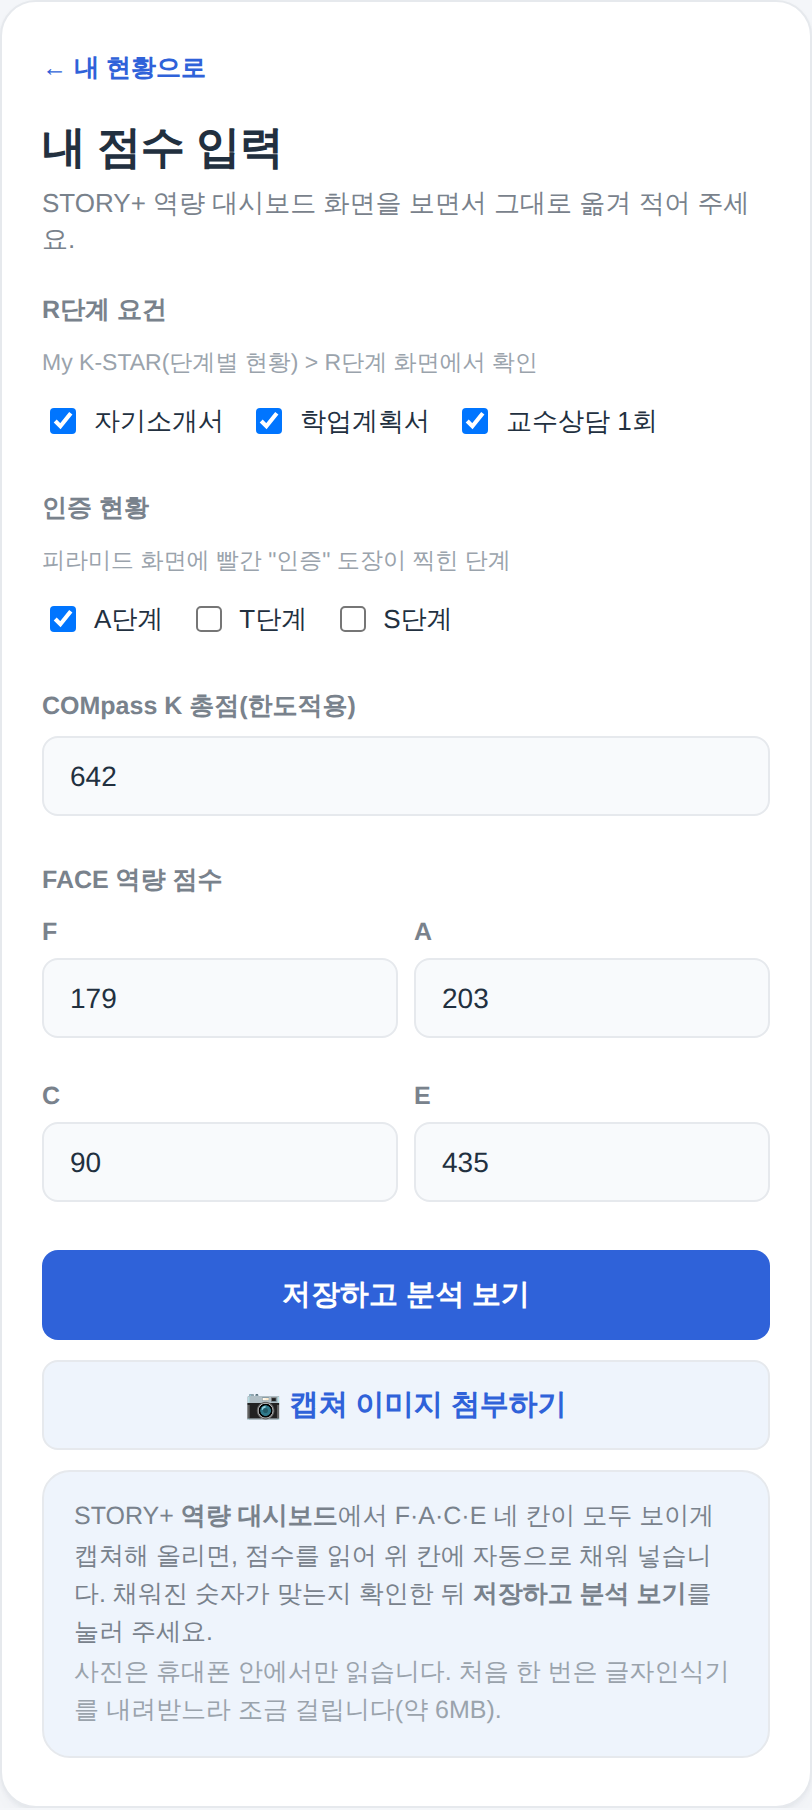
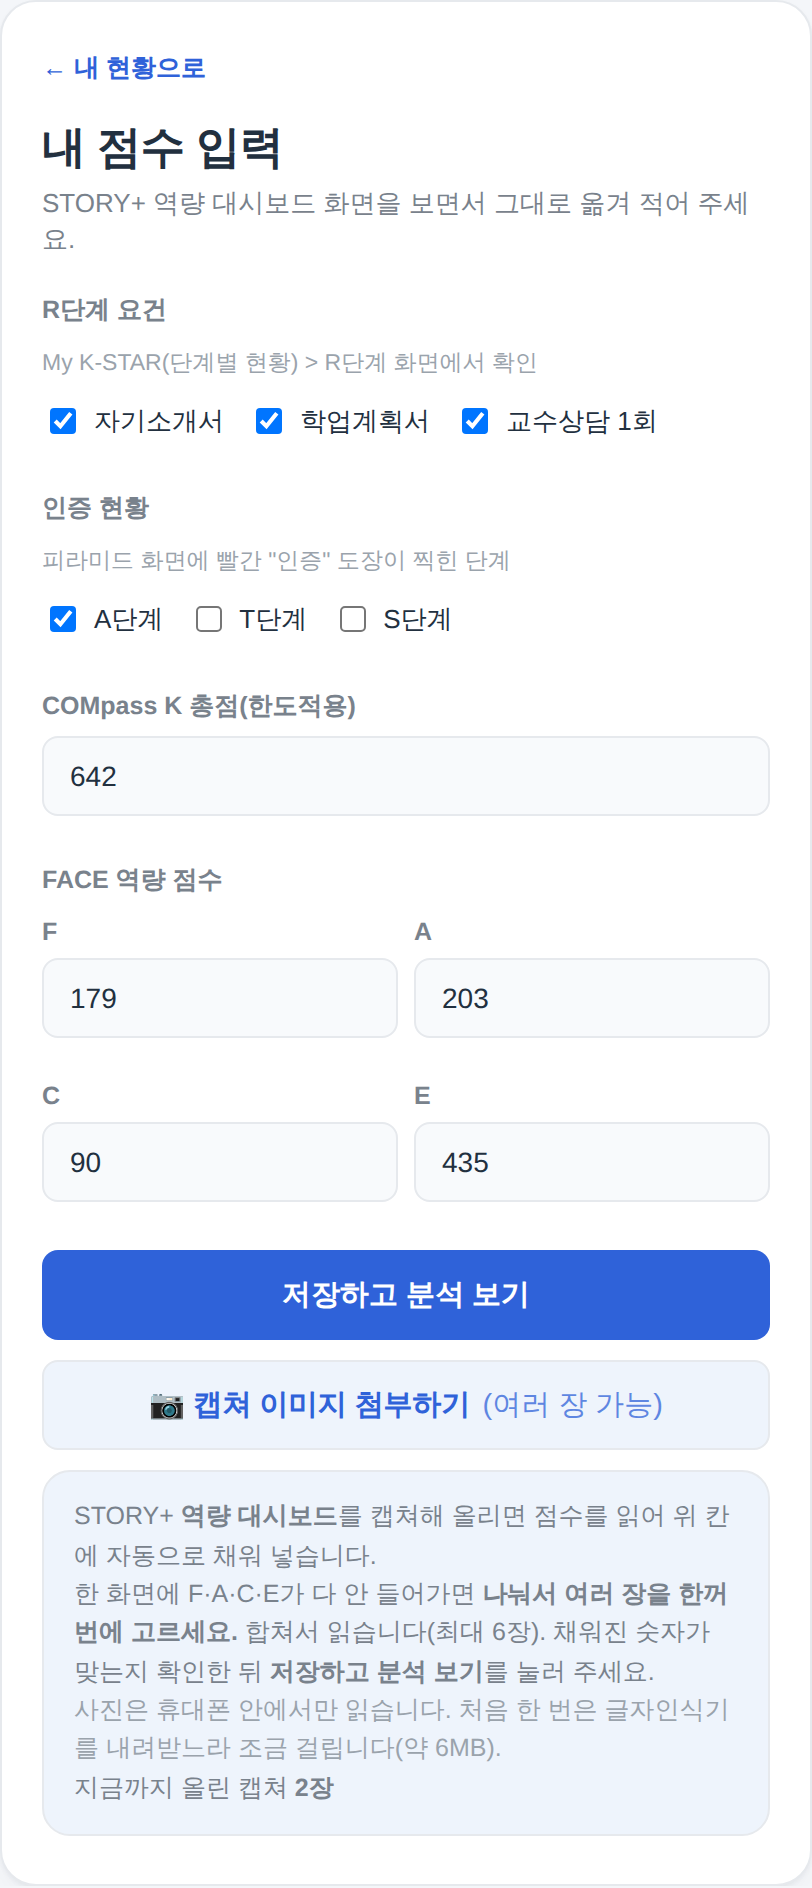
캡쳐를 여러 장 한꺼번에 올려 합쳐 읽도록 함
한 화면에 F·A·C·E 네 영역이 다 들어가지 않아 학생들이 나눠 캡쳐하게
되는데, 지금까지는 한 장만 읽을 수 있었다.

- 파일 선택에서 여러 장(최대 6장) 고르기 가능
- 장마다 읽은 결과를 합친다. 먼저 읽은 값을 남기고 빠진 영역만 채운다
- 진행 상황을 "2/3장 — 점수를 읽는 중입니다… 40%" 로 보여줌
- 못 찾은 영역이 있으면 어느 영역인지 알려준다
- 캡쳐 보관 요청이 서로 덮어쓰지 않도록 차례로 보냄
- 입력칸을 비우면 고른 파일 목록까지 비워지던 문제 수정

검증: 실제 캡쳐 한 장을 위아래로 잘라 두 장으로 올려 브라우저에서 확인 —
F50 A150 C90 E195 를 정확히 합쳐 읽음

Claude-Session: https://claude.ai/code/session_019X6R4KipJqxm9tG7Tq54df

diff --git a/index.html b/index.html
@@ -432,7 +432,7 @@ function sameName(a, b){
 var API_URL = 'https://script.google.com/macros/s/AKfycbzdGENYqLZVMiW1gDjRwu1DXK8PLuFW3rBE8E1GQ7exrQmRKLdWmgcrJ_99Q6UIWIKJ/exec';
 
 // 화면 아래에 표시되는 판 번호. 고칠 때마다 올린다.
-var APP_VERSION = '2026-09-21 g';
+var APP_VERSION = '2026-09-21 h';
 
 /* ============ store: 서버 → 아티팩트DB → 기기저장 순으로 사용 ============ */
 var db = null, fallbackMode = false, fallbackData = {};
@@ -1505,12 +1505,13 @@ function screenScoreForm(){
       '<button type="submit" class="btn btn-primary">저장하고 분석 보기</button>' +
     '</form>' +
     '<div style="height:10px;"></div>' +
-    '<label class="btn btn-ghost" for="shotInput" style="cursor:pointer;">📷 캡쳐 이미지 첨부하기</label>' +
-    '<input id="shotInput" type="file" accept="image/*" style="display:none;">' +
+    '<label class="btn btn-ghost" for="shotInput" style="cursor:pointer;">📷 캡쳐 이미지 첨부하기 <span style="font-weight:500;opacity:.75;">(여러 장 가능)</span></label>' +
+    '<input id="shotInput" type="file" accept="image/*" multiple style="display:none;">' +
     (state.shotMsg ? '<div class="okbox" style="margin-top:10px;font-weight:500;">'+esc(state.shotMsg)+'</div>' : '') +
     '<div class="notice-box" style="margin-top:10px;margin-bottom:0;">' +
-      'STORY+ <b>역량 대시보드</b>에서 F·A·C·E 네 칸이 모두 보이게 캡쳐해 올리면, ' +
-      '점수를 읽어 위 칸에 자동으로 채워 넣습니다. 채워진 숫자가 맞는지 확인한 뒤 ' +
+      'STORY+ <b>역량 대시보드</b>를 캡쳐해 올리면 점수를 읽어 위 칸에 자동으로 채워 넣습니다.<br>' +
+      '한 화면에 F·A·C·E가 다 안 들어가면 <b>나눠서 여러 장을 한꺼번에 고르세요.</b> ' +
+      '합쳐서 읽습니다(최대 '+MAX_SHOTS+'장). 채워진 숫자가 맞는지 확인한 뒤 ' +
       '<b>저장하고 분석 보기</b>를 눌러 주세요.<br>' +
       '<span style="color:var(--text-faint);">사진은 휴대폰 안에서만 읽습니다. ' +
       '처음 한 번은 글자인식기를 내려받느라 조금 걸립니다(약 6MB).</span>' +
@@ -2034,11 +2035,12 @@ function guideStudent(){
       '<ul>' +
         '<li><b>📷 캡쳐 이미지 첨부하기</b>를 누르고 역량 대시보드 캡쳐를 고르면, ' +
           'F·A·C·E 점수를 읽어 <b>자동으로 채워 넣습니다.</b> 숫자가 맞는지만 확인하면 돼요.</li>' +
+        '<li>한 화면에 네 영역이 다 안 들어가면 <b>나눠서 여러 장을 한꺼번에 고르세요.</b> 합쳐서 읽습니다.</li>' +
         '<li>직접 적어도 됩니다. 화면에 나온 <b>COMpass K 총점</b>과 <b>F·A·C·E 점수</b>를 그대로 옮겨 적어 주세요.</li>' +
         '<li><b>My K-STAR(단계별 현황)</b> 화면에서 R단계 요건 3가지와, 피라미드에 빨간 "인증" 도장이 찍힌 단계를 체크해 주세요.</li>' +
         '<li>저장하면 바로 아래에 내 분석 결과가 나타납니다.</li>' +
       '</ul>' +
-      stepShot('guide-img/s8-score-form.png', '내 점수 입력 화면 — 맨 아래 "캡쳐 이미지 첨부하기"를 쓰면 자동으로 채워져요') +
+      stepShot('guide-img/s8-score-form.png', '내 점수 입력 화면 — 맨 아래 "캡쳐 이미지 첨부하기"로 여러 장을 한꺼번에 올릴 수 있어요') +
       '</div>' +
     '<div class="step"><div class="step-num">3</div>' +
       '<h2>내 분석 결과 보기</h2>' +
@@ -2588,39 +2590,64 @@ function fillScoreForm(v){
 }
 
 // 캡쳐 원본은 서버가 받아 줄 때만 보관한다. 못 받아도 학생 화면은 그대로 동작한다.
+// 여러 장을 한꺼번에 올릴 수 있으므로, 서로 덮어쓰지 않게 차례차례 보낸다.
+var archiveQueue = Promise.resolve();
 function archiveShot(dataUrl){
   if(!apiMode || !state.studentSession) return;
-  apiCall('analyze', { dataUrl: dataUrl, name: (cache.me && cache.me.name) || 'capture' })
-    .then(function(out){
-      if(!out || !out.fileId) return;
-      var shots = ((cache.me && cache.me.shots) || []).concat([{ fileId: out.fileId, at: nowIso() }]);
-      return storeUpdate('roster', state.studentSession.rosterId, { shots: shots }).then(loadMe);
-    })
-    .catch(function(){ /* 보관은 덤이라 실패해도 알리지 않는다 */ });
+  archiveQueue = archiveQueue.then(function(){
+    return apiCall('analyze', { dataUrl: dataUrl, name: (cache.me && cache.me.name) || 'capture' })
+      .then(function(out){
+        if(!out || !out.fileId) return;
+        var shots = ((cache.me && cache.me.shots) || []).concat([{ fileId: out.fileId, at: nowIso() }]);
+        return storeUpdate('roster', state.studentSession.rosterId, { shots: shots }).then(loadMe);
+      });
+  }).catch(function(){ /* 보관은 덤이라 실패해도 알리지 않는다 */ });
 }
 
-async function handleShot(file){
-  if(!file || state.shotBusy) return;
-  state.shotBusy = true;
-  var note = function(msg){ state.shotMsg = msg; render(); };
-  note('캡쳐를 준비하는 중입니다…');
-  try{
-    var dataUrl = await scaleImage(file, 1200);
-    var values = await ocrShot(dataUrl, note);
+var MAX_SHOTS = 6;      // 한 번에 올릴 수 있는 장수
 
-    if(values){
-      var filled = fillScoreForm(values);
-      state.shotMsg = filled.length
-        ? '캡쳐에서 ' + filled.join(', ') + ' 을(를) 읽어 채웠습니다. 맞는지 확인하고 저장해 주세요.'
-        : '캡쳐는 읽었지만 채울 숫자를 찾지 못했습니다. 직접 입력해 주세요.';
+async function handleShots(fileList){
+  var files = Array.prototype.slice.call(fileList || [], 0, MAX_SHOTS);
+  if(!files.length || state.shotBusy) return;
+  state.shotBusy = true;
+
+  var many = files.length > 1;
+  var note = function(msg){ state.shotMsg = msg; render(); };
+  var merged = {};
+
+  try{
+    for(var i = 0; i < files.length; i++){
+      var head = many ? (i+1) + '/' + files.length + '장 — ' : '';
+      note(head + '캡쳐를 준비하는 중입니다…');
+      var dataUrl = await scaleImage(files[i], 1200);
+      var values = await ocrShot(dataUrl, (function(h){
+        return function(m){ note(h + m); };
+      })(head));
+      if(values){
+        // 먼저 읽은 값을 남기고, 아직 못 찾은 영역만 채워 넣는다
+        AREAS.forEach(function(x){
+          if(merged[x] === undefined && values[x] !== undefined) merged[x] = values[x];
+        });
+      }
+      archiveShot(dataUrl);
+    }
+
+    var got  = AREAS.filter(function(x){ return merged[x] !== undefined; });
+    var miss = AREAS.filter(function(x){ return merged[x] === undefined; });
+
+    if(got.length){
+      fillScoreForm(merged);
+      state.shotMsg =
+        (many ? files.length + '장에서 ' : '캡쳐에서 ') + got.join(', ') +
+        ' 점수를 읽어 채웠습니다. 맞는지 확인하고 저장해 주세요.' +
+        (miss.length ? ' (' + miss.join(', ') + '는 못 찾았습니다 — 그 부분이 보이는 캡쳐를 더 올리거나 직접 입력해 주세요)' : '');
       render();
-      fillScoreForm(values);          // 다시 그린 뒤에도 값이 남도록
+      fillScoreForm(merged);          // 다시 그린 뒤에도 값이 남도록
     }else{
       state.shotMsg = '점수를 찾지 못했습니다. ' +
-        'STORY+ 역량 대시보드에서 F·A·C·E 네 칸이 모두 보이게 캡쳐해 주시거나, 직접 입력해 주세요.';
+        'STORY+ 역량 대시보드에서 F·A·C·E 칸이 보이게 캡쳐해 주시거나, 직접 입력해 주세요.';
       render();
     }
-    archiveShot(dataUrl);
   }catch(e){
     state.shotMsg = errMsg(e);
     render();
@@ -2631,7 +2658,10 @@ async function handleShot(file){
 
 document.addEventListener('change', function(e){
   if(e.target && e.target.id === 'shotInput'){
-    handleShot(e.target.files && e.target.files[0]);
+    // 입력칸을 비우면 고른 목록도 함께 비워지므로 먼저 복사해 둔다
+    var picked = Array.prototype.slice.call(e.target.files || []);
+    e.target.value = '';            // 같은 사진을 다시 골라도 다시 읽도록 비워 둔다
+    handleShots(picked);
   }
 });
 
